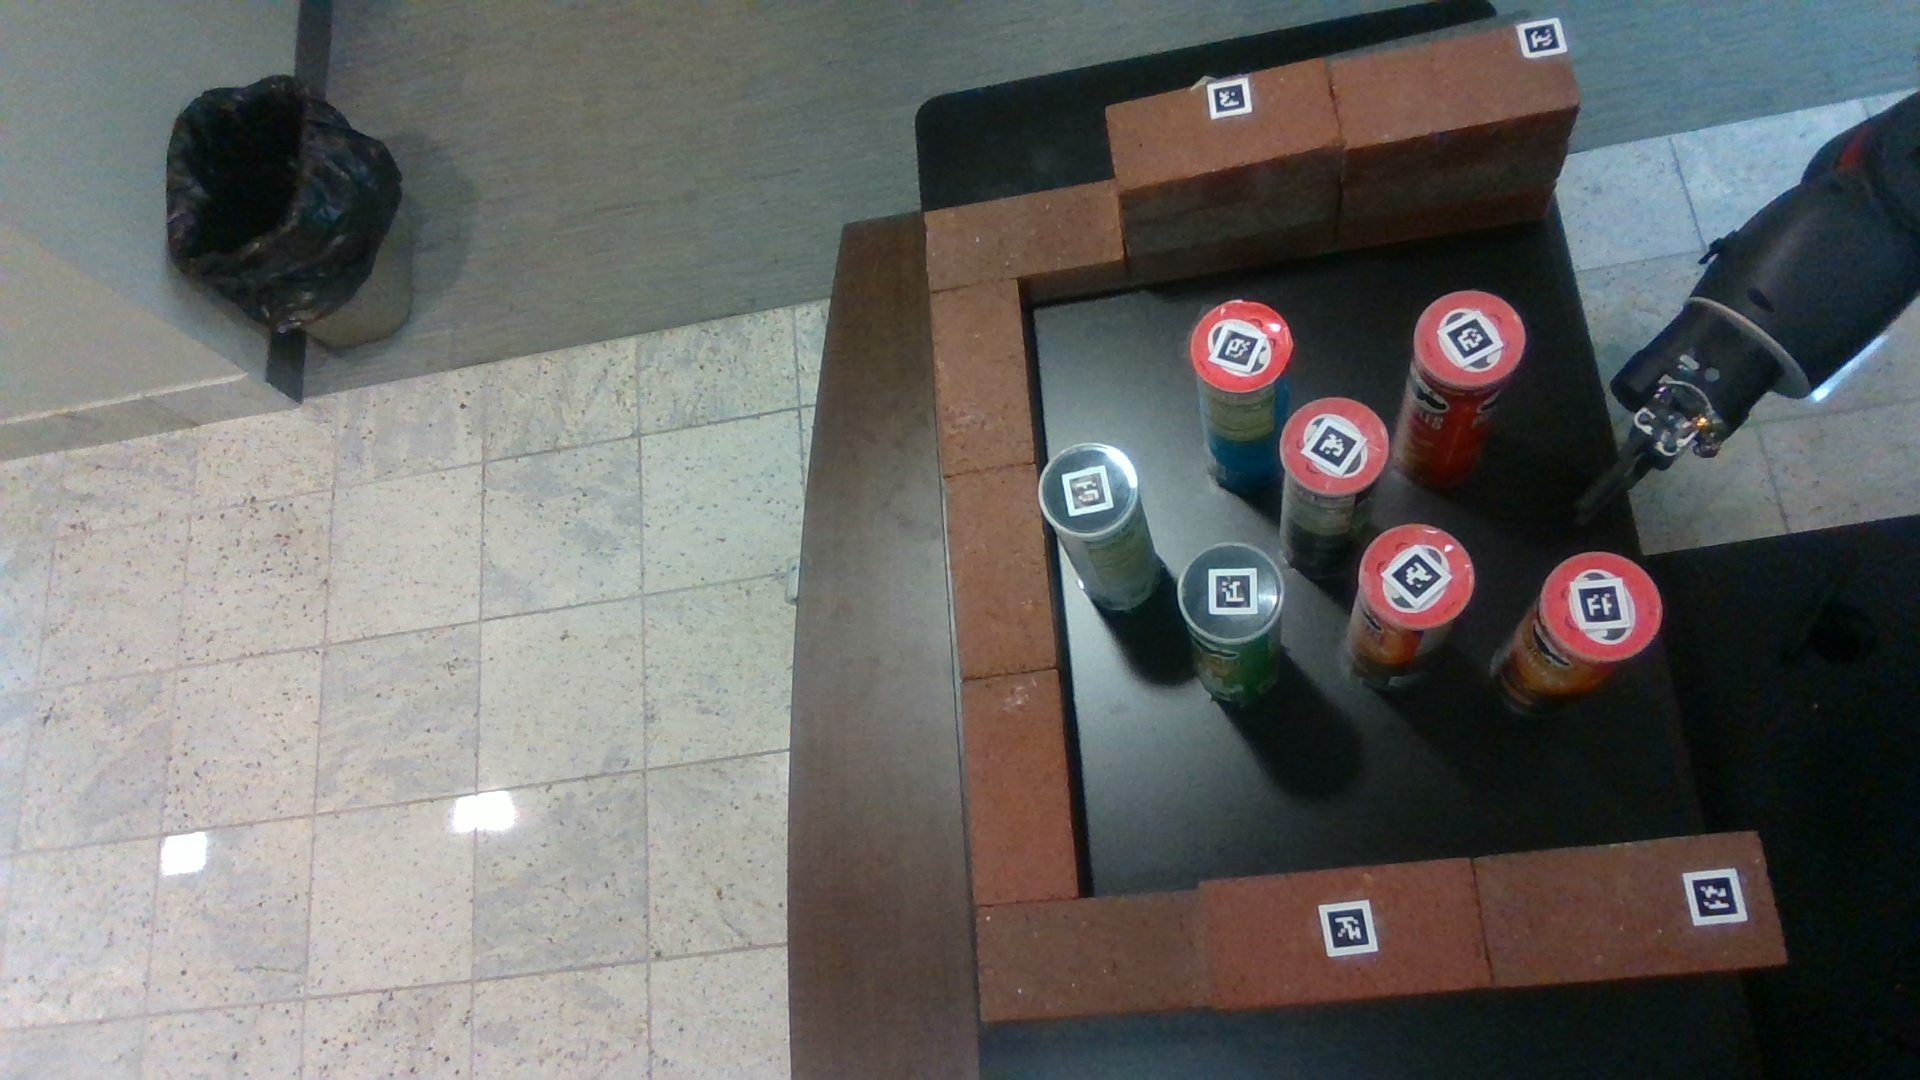
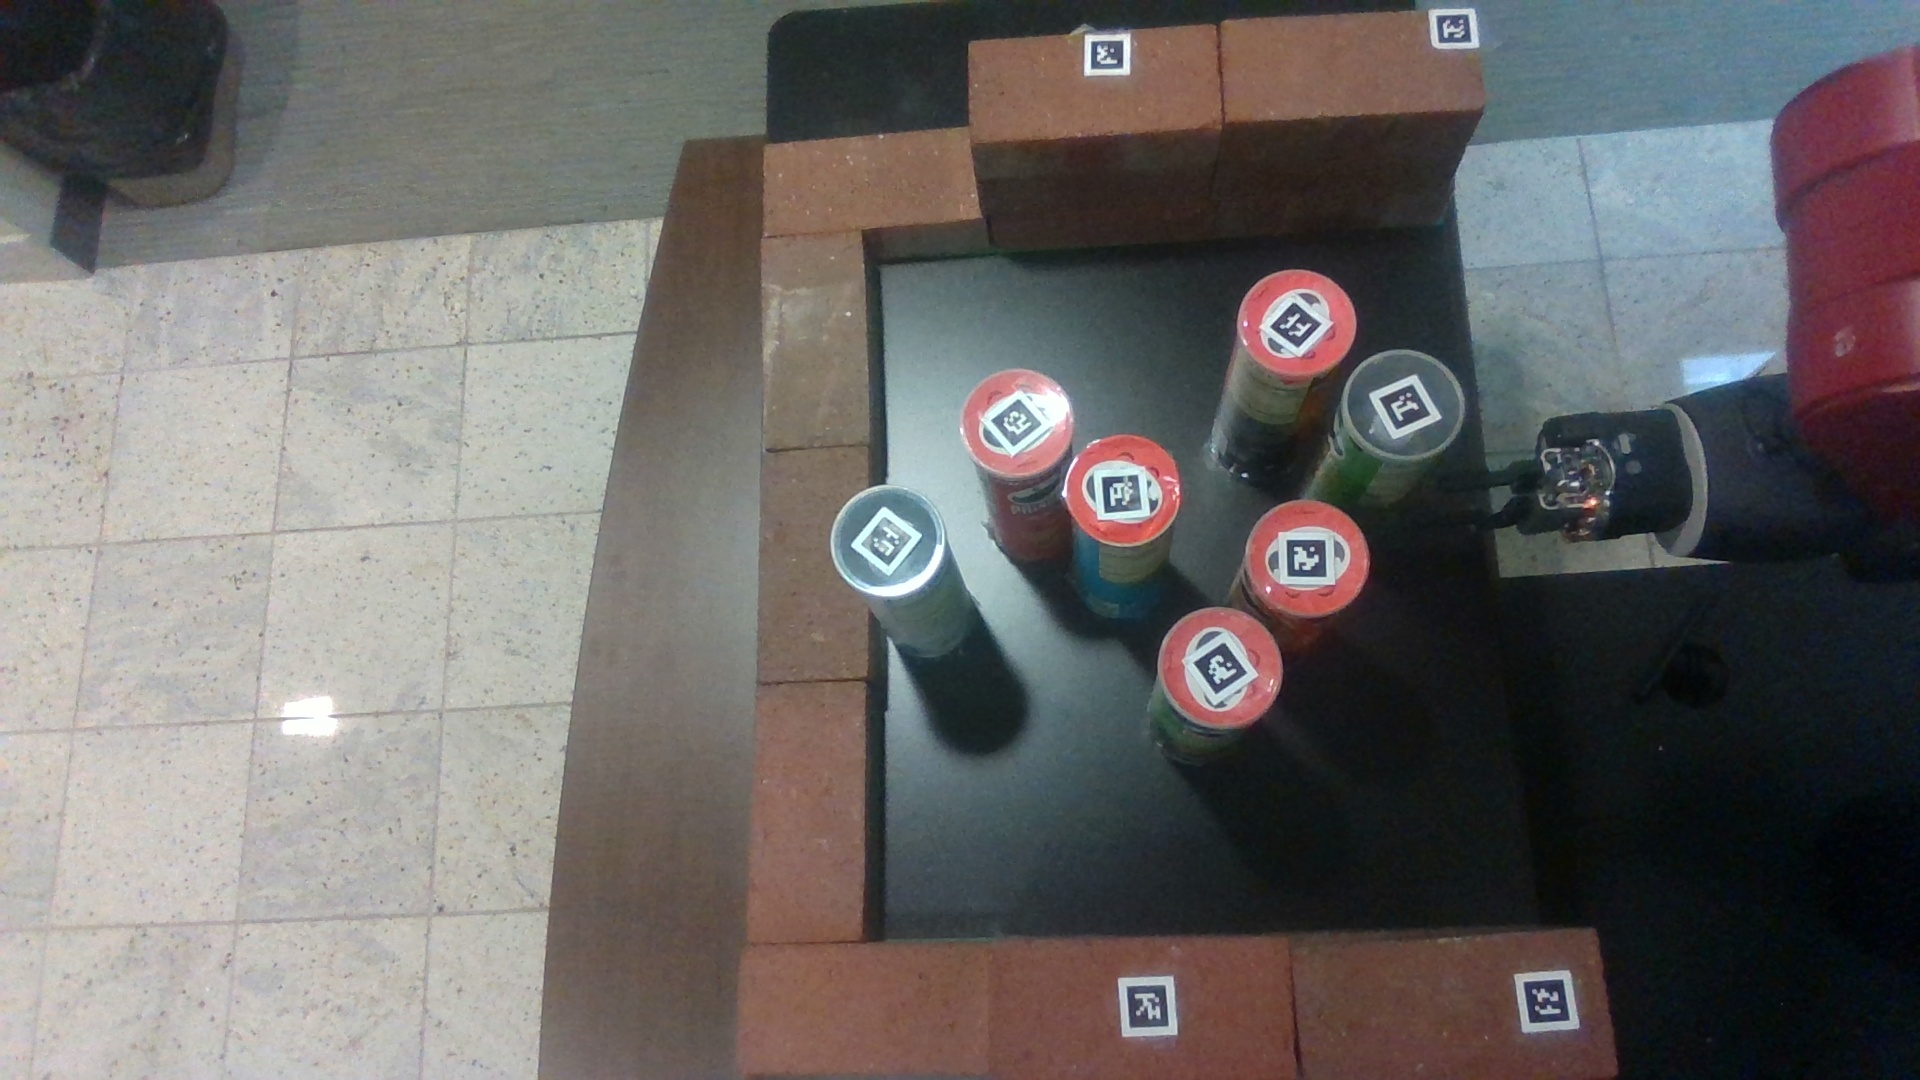
we have finished the real robot experiments for MCTS

diff --git a/central_control.py b/central_control.py
@@ -2,7 +2,7 @@ import os
 import time
 import numpy as np
 import sys
-sys.path.insert(0, os.path.join(os.path.dirname(os.path.abspath(__file__)), 'src', 'baxter_planit', 'scripts'))
+# sys.path.insert(0, os.path.join(os.path.dirname(os.path.abspath(__file__)), 'src', 'baxter_planit', 'scripts'))
 import rospy
 from gazebo_msgs.srv import DeleteModel, SpawnModel, SetModelState, GetModelState, GetWorldProperties
 from gazebo_msgs.msg import ModelState, ModelStates
@@ -13,10 +13,11 @@ from Perception.pose_estimation_v1_for_letters.get_tags import Perception
 from src.real_baxter_planit.scripts.position_the_arm import position_the_arm as real_position_the_arm
 from src.real_baxter_planit.scripts.get_arm_position import get_arm_position as real_get_arm_position
 from src.real_baxter_planit.scripts.demo_read_plan import demo_real_plan as real_execute
-from src.baxter_planit.scripts.PHIA_1st import PHIA_pipeline as sim_get_plan
-from src.baxter_planit.scripts.stick import spawning
-from src.baxter_planit.scripts.spawn_objects import main as spawning_object
-from src.baxter_planit.scripts.PHIM import main as PHIM 
+# from src.baxter_planit.scripts.PHIA_1st import PHIA_pipeline as sim_get_plan
+# from Persistent_Homology.PHIM import main as PHIM_get_plan
+# from src.baxter_planit.scripts.stick import spawning
+# from src.baxter_planit.scripts.spawn_objects import main as spawning_object
+# from src.baxter_planit.scripts.PHIM import main as PHIM 
 
 
 def sim_spawn_objects():
@@ -141,7 +142,7 @@ def get_workspace_center():
     print("x,y,z", x,y,z)
     return x,y,z
 
-def pipeline():
+def pipeline(type_of_plan):
     time_perception = 0
     time_get_arm_current_position = 0
     time_task_planning = 0
@@ -173,7 +174,7 @@ def pipeline():
         real_get_arm_position()
         time_get_arm_current_position = time.time()-start
         start = time.time()
-        sim_get_plan()
+        type_of_plan()
         time_task_planning = time.time()-start
         print('perception: ', time_perception)
         print('check arm: ', time_get_arm_current_position)
@@ -202,11 +203,16 @@ def pipeline():
         
 
 if __name__ == '__main__':
-    # pipeline()
+
+    # type_of_plan = sim_get_plan
+    # type_of_plan = PHIM_get_plan
+    # pipeline(type_of_plan)
+
+
     # P = real_calibration()
     # real_perception(P)
     # real_get_arm_position()
-    # real_execute()
+    real_execute()
     # sim_get_plan()
     # test()
     # real_position_the_arm()
@@ -214,5 +220,4 @@ if __name__ == '__main__':
     # spawning()
     # sim_delete_models()
     # spawning_object()
-    PHIM()
-    
+    # PHIM()

diff --git a/Persistent_Homology/PHIM.py b/Persistent_Homology/PHIM.py
@@ -21,6 +21,17 @@ import numpy as np
 
 def main():
 
+    ARM_LENGTH = 0.2
+    RADIUS_OBS = 0.039
+    # RADIUS_CC = 0.1  # 0.07  # 0.315
+    WIDTH_ARM = 0.16  # 0.12
+    BOUNDARY_N = 0.58
+    BOUNDARY_S = 0.0
+
+    TABLE = 0.68  # x
+    nu = 0.015
+    h = 0.08
+
 
 
     Stick = Stick_Simulation.Stick_Simulation(ARM_LENGTH, RADIUS_OBS, WIDTH_ARM, BOUNDARY_N,
@@ -82,6 +93,10 @@ def main():
 
         planner = MCTS.MCTS(source_config, PH.path_region, PH.radii, PH, Stick)
 
+        for action in planner.action_list:
+            for j in range(3):
+                action[j+1] = [action[j+1][0], action[j+1][1] + Stick.y_shift]
+
         print(planner.action_list)
 
         write_plan(planner.action_list)
@@ -136,7 +151,6 @@ def basic_move():
 def execute_plan(Stick, action_list):
     for action in action_list:
         for j in range(3):
-            action[j+1] = [action[j+1][0], action[j+1][1] + Stick.y_shift]
             Stick.move_rel_tip(Stick.tip_position(), action[j+1])
 
 def first_action():
@@ -167,16 +181,16 @@ def first_action():
 
 if __name__ == '__main__':
 
-    ARM_LENGTH = 0.2
-    RADIUS_OBS = 0.039
-    # RADIUS_CC = 0.1  # 0.07  # 0.315
-    WIDTH_ARM = 0.16  # 0.12
-    BOUNDARY_N = 0.58
-    BOUNDARY_S = 0.0
+    # ARM_LENGTH = 0.2
+    # RADIUS_OBS = 0.039
+    # # RADIUS_CC = 0.1  # 0.07  # 0.315
+    # WIDTH_ARM = 0.16  # 0.12
+    # BOUNDARY_N = 0.58
+    # BOUNDARY_S = 0.0
 
-    TABLE = 0.68  # x
-    nu = 0.015
-    h = 0.08
+    # TABLE = 0.68  # x
+    # nu = 0.015
+    # h = 0.08
 
     # testing theoretical example
     # RADIUS_OBS = 0.0049

diff --git a/src/real_baxter_planit/scripts/demo_read_plan.py b/src/real_baxter_planit/scripts/demo_read_plan.py
@@ -29,7 +29,7 @@ def demo_real_plan():
     # planner.scene.add_box('block', list_to_pose_stamped([1.0, -0.5, -0.05, 0, 0, 0], 'world'), (0.05, 0.05, 0.26))
     start = time.time()
     planner.scene.add_box('table_base', list_to_pose_stamped([0.9525 + offset_x, -0.23 + offset_y, 0.3825, 0, 0, 0], 'world'), (0.81, 1.2, 0.765))
-    planner.scene.add_box('table', list_to_pose_stamped([0.98 + offset_x, -0.23 + offset_y, 0.8675, 0, 0, 0], 'world'), (0.6, 1.2, 0.205))
+    planner.scene.add_box('table', list_to_pose_stamped([0.98 + offset_x, -0.23 + offset_y, 0.8275, 0, 0, 0], 'world'), (0.6, 1.2, 0.205))
     planner.scene.add_box('boundaryW', list_to_pose_stamped([1.225 + offset_x, -0.265 + offset_y, 1.0575, 0, 0, 0], 'world'), (0.09, 0.58, 0.175))
     planner.scene.add_box('boundaryS', list_to_pose_stamped([0.975 + offset_x, 0.07 + offset_y, 1.0575, 0, 0, 0], 'world'), (0.59, 0.09, 0.175))
     planner.scene.add_box('boundaryN', list_to_pose_stamped([0.975 + offset_x, -0.60 + offset_y, 1.0575, 0, 0, 0], 'world'), (0.59, 0.09, 0.175))
@@ -74,9 +74,9 @@ def demo_real_plan():
     with open(plan_path, 'r') as f:
         for line in f.readlines():
             if line[0] == 'a':
-                if second_action:
-                    break # only execute the first action
-                second_action = True
+                # if second_action:
+                #     break # only execute the first action
+                # second_action = True
                 continue
             else:
                 words = line.split(sep='],')

diff --git a/constants.py b/constants.py
@@ -7,10 +7,10 @@ obstacle_tags = [111, 113,114, 129, 128, 127]
 
 # tag locations
 tag_loc_robot = {
-    105: (929.5 / 1000, -657.1 / 1000),
-    107: (723 / 1000, 49.5 / 1000),
+    105: (919.3 / 1000, -656.1 / 1000),
+    107: (708.6 / 1000, 52.9 / 1000),
     108: (665 / 1000, -643 / 1000),
-    109: (969.6 / 1000, 38.8 / 1000)
+    109: (949.4 / 1000, 39.7 / 1000)
 }
 
 tag_loc_robot_height = {

diff --git a/Perception/pose_estimation_v1_for_letters/get_tags.py b/Perception/pose_estimation_v1_for_letters/get_tags.py
@@ -115,6 +115,7 @@ class Perception():
                 break
             else:
                 print(' Failed perception, will try again.')
+                # time.sleep(0.3)
             print('##################')
             
 
